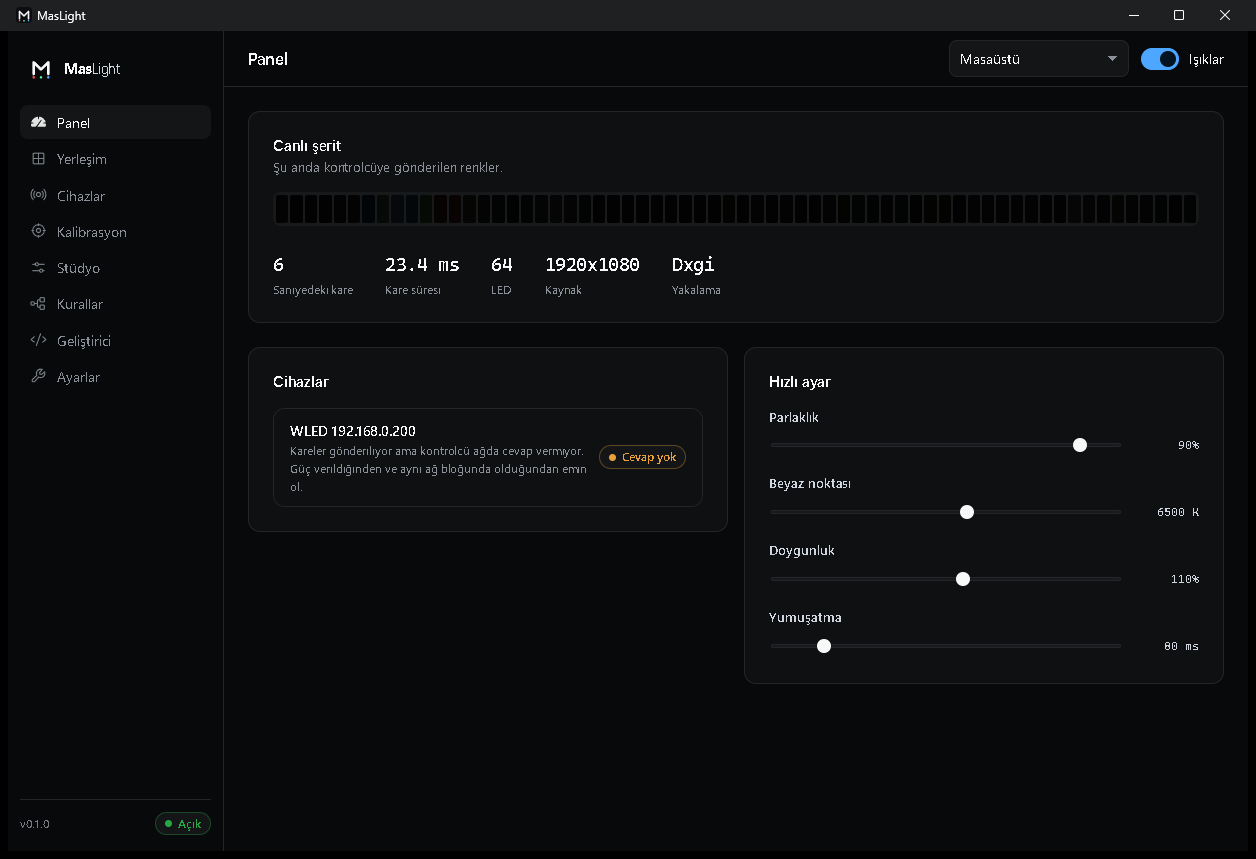
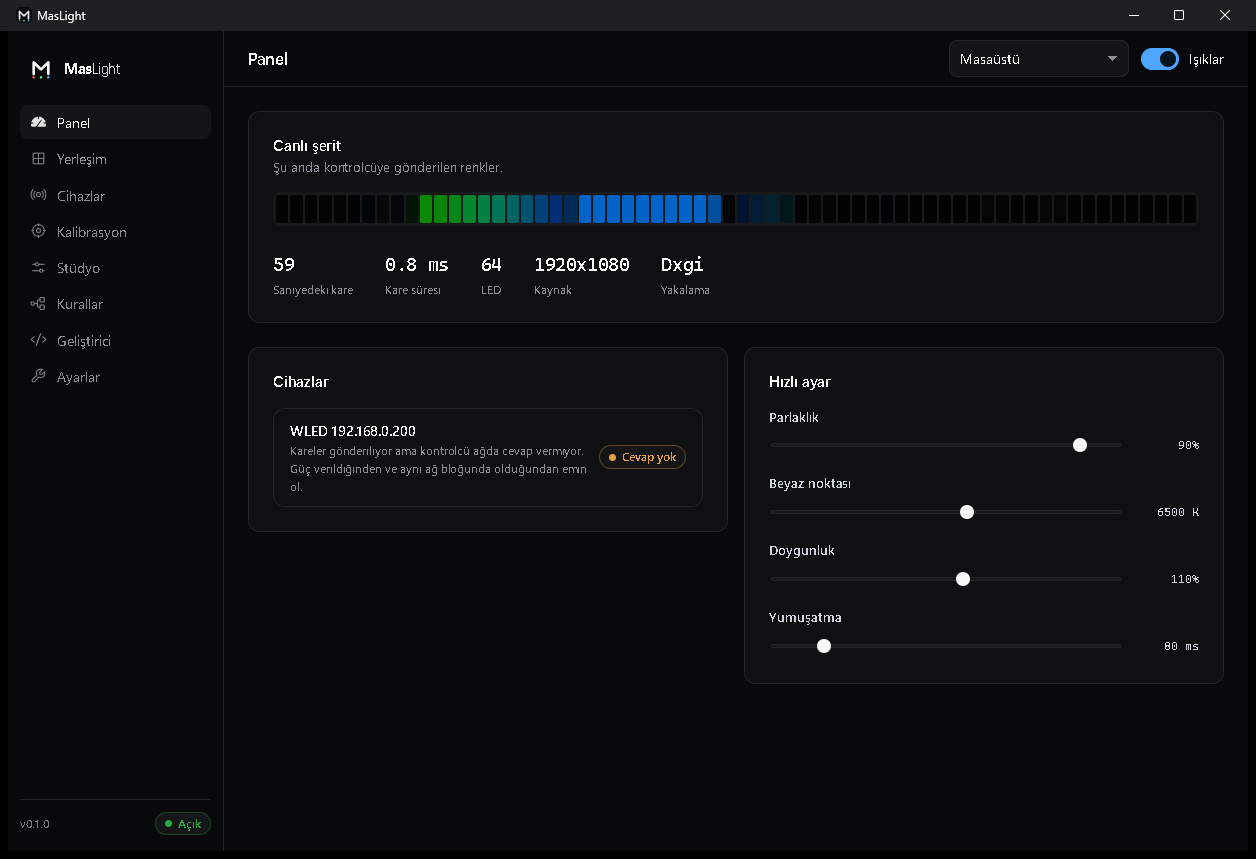
Write a log file, because an application in the tray has no console
Chasing a real problem tonight meant staring at an application that would not
say anything at all. Started from a shortcut, from the tray, or at login,
there is no console for the log to go to, so on Windows it went nowhere. The
one instruction the readme gives somebody with dark lights is to run a
command line tool, which is the only part of MasLight that could talk.

There is now a log next to the configuration, rewritten each launch so it
stays small on a machine that starts at login, and still written to the
console for anyone running it from a terminal. It says which configuration
file was read, how big it was and how many profiles came out of it, which
profile is active and how many LEDs and devices it has, and which capture
backend started at what size.

That last set is exactly what was needed here. The application appeared to be
ignoring a saved configuration; the log showed it reading the right path and
finding a file that had already been replaced by defaults, which is the
failure the previous commit stops from happening. Without the log that took
an hour of guessing, and a user would simply have concluded the application
was broken.

A profile line reading Default with no LEDs is now the signature to look for,
and the install page says so.

diff --git a/app/src-tauri/src/lib.rs b/app/src-tauri/src/lib.rs
@@ -80,20 +80,83 @@ impl AppState {
     }
 }
 
+/// Send the log to a file as well as to the console.
+///
+/// A desktop application started from a shortcut, from the tray, or at login
+/// has no console to write to, so on Windows the log went nowhere at all and
+/// there was no way to find out why anything had happened. Keeping a file
+/// next to the configuration means somebody with dark lights can read what
+/// the application thought it was doing, and can send it to somebody else.
+///
+/// The console layer stays for anyone running it from a terminal. The
+/// returned guard has to stay alive for the process, or the last lines never
+/// reach the disk.
+fn start_logging() -> Option<tracing_appender::non_blocking::WorkerGuard> {
+    use tracing_subscriber::layer::SubscriberExt;
+    use tracing_subscriber::util::SubscriberInitExt;
+    // Brings with_filter onto the individual layers.
+    use tracing_subscriber::Layer as _;
+
+    let filter = || {
+        tracing_subscriber::EnvFilter::try_from_env("MASLIGHT_LOG")
+            .unwrap_or_else(|_| tracing_subscriber::EnvFilter::new("info"))
+    };
+
+    let dir = maslight_core::profile::config_dir();
+    let file = std::fs::create_dir_all(&dir).ok().and_then(|()| {
+        // Truncate rather than append: one launch is what somebody needs to
+        // read, and an unbounded log on a machine that starts at login is a
+        // problem of its own.
+        std::fs::File::create(dir.join("maslight.log")).ok()
+    });
+
+    match file {
+        Some(file) => {
+            let (writer, guard) = tracing_appender::non_blocking(file);
+            tracing_subscriber::registry()
+                .with(
+                    tracing_subscriber::fmt::layer()
+                        .with_ansi(false)
+                        .with_writer(writer)
+                        .with_filter(filter()),
+                )
+                .with(tracing_subscriber::fmt::layer().with_filter(filter()))
+                .init();
+            tracing::info!("MasLight {} starting", env!("CARGO_PKG_VERSION"));
+            Some(guard)
+        }
+        None => {
+            tracing_subscriber::fmt().with_env_filter(filter()).init();
+            None
+        }
+    }
+}
+
 /// Entry point shared by the desktop binary and any future embedder.
 pub fn run() {
-    tracing_subscriber::fmt()
-        .with_env_filter(
-            tracing_subscriber::EnvFilter::try_from_env("MASLIGHT_LOG")
-                .unwrap_or_else(|_| tracing_subscriber::EnvFilter::new("info")),
-        )
-        .init();
+    let _log = start_logging();
 
     let loaded = AppConfig::load_or_default();
     // Announce what happened here rather than inside the core crate, which has
     // no logging and no business deciding how a problem is reported.
+    let where_from = maslight_core::profile::config_path();
     match &loaded {
-        ConfigLoad::Loaded(_) | ConfigLoad::Fresh(_) => {}
+        ConfigLoad::Loaded(c) => {
+            tracing::info!(
+                "configuration read from {} ({} bytes on disk, {} profile(s))",
+                where_from.display(),
+                std::fs::metadata(&where_from).map(|m| m.len()).unwrap_or(0),
+                c.profiles.len()
+            );
+        }
+        // Worth saying out loud. Somebody whose settings have apparently
+        // vanished is usually looking at a different file than they think.
+        ConfigLoad::Fresh(_) => {
+            tracing::info!(
+                "no configuration at {}, starting from defaults",
+                where_from.display()
+            );
+        }
         ConfigLoad::Replaced { error, kept, .. } => {
             tracing::error!(
                 "the configuration is not valid json ({error}); it has been kept as {} and MasLight is starting from defaults",
@@ -124,6 +187,22 @@ pub fn run() {
             }
         }
     }
+    // One line that says what is about to run. Somebody reading this log
+    // because their lights are dark should not have to guess which profile
+    // was active or whether it had any LEDs in it.
+    {
+        let p = config.active();
+        tracing::info!(
+            "profile {:?} ({}), mode {:?}, {} leds, {} device(s), enabled {}",
+            p.name,
+            p.id,
+            p.mode,
+            p.layout.len(),
+            p.devices.len(),
+            config.enabled
+        );
+    }
+
     let start_minimised = config.ui.start_minimised;
     let state = AppState::new(config);
     {

diff --git a/docs/install.md b/docs/install.md
@@ -46,6 +46,33 @@ backend lands.
    shows green when the screen is red.
 4. **Studio.** Brightness, smoothing, eye care and the current limit.
 
+## When something is wrong
+
+MasLight writes a log next to its configuration, rewritten on each launch:
+
+| System | Path |
+|---|---|
+| Windows | `%APPDATA%\MasLight\maslight.log` |
+| macOS | `~/Library/Application Support/MasLight/maslight.log` |
+| Linux | `~/.config/maslight/maslight.log` |
+
+It says which configuration file was read and how many LEDs and devices came
+out of it, which capture backend started and at what size, and anything that
+failed. An application started from a shortcut or at login has no console, so
+without the file there is nothing to look at. A healthy start looks like this:
+
+```text
+INFO maslight_app: configuration read from ...\config.json (20688 bytes on disk, 1 profile(s))
+INFO maslight_app: profile "Desk" (desk), mode Screen, 64 leds, 1 device(s), enabled true
+INFO maslight_capture::dxgi: DXGI capture on \.\DISPLAY1 at 1920x1080, reading back 240x135 from mip 3
+```
+
+If the profile line says `"Default" (default), 0 leds`, MasLight is not reading
+the configuration you think it is: the path on the line above is the one it
+actually used.
+
+Set `MASLIGHT_LOG=debug` for more.
+
 ## Where the configuration lives
 
 | System | Path |
